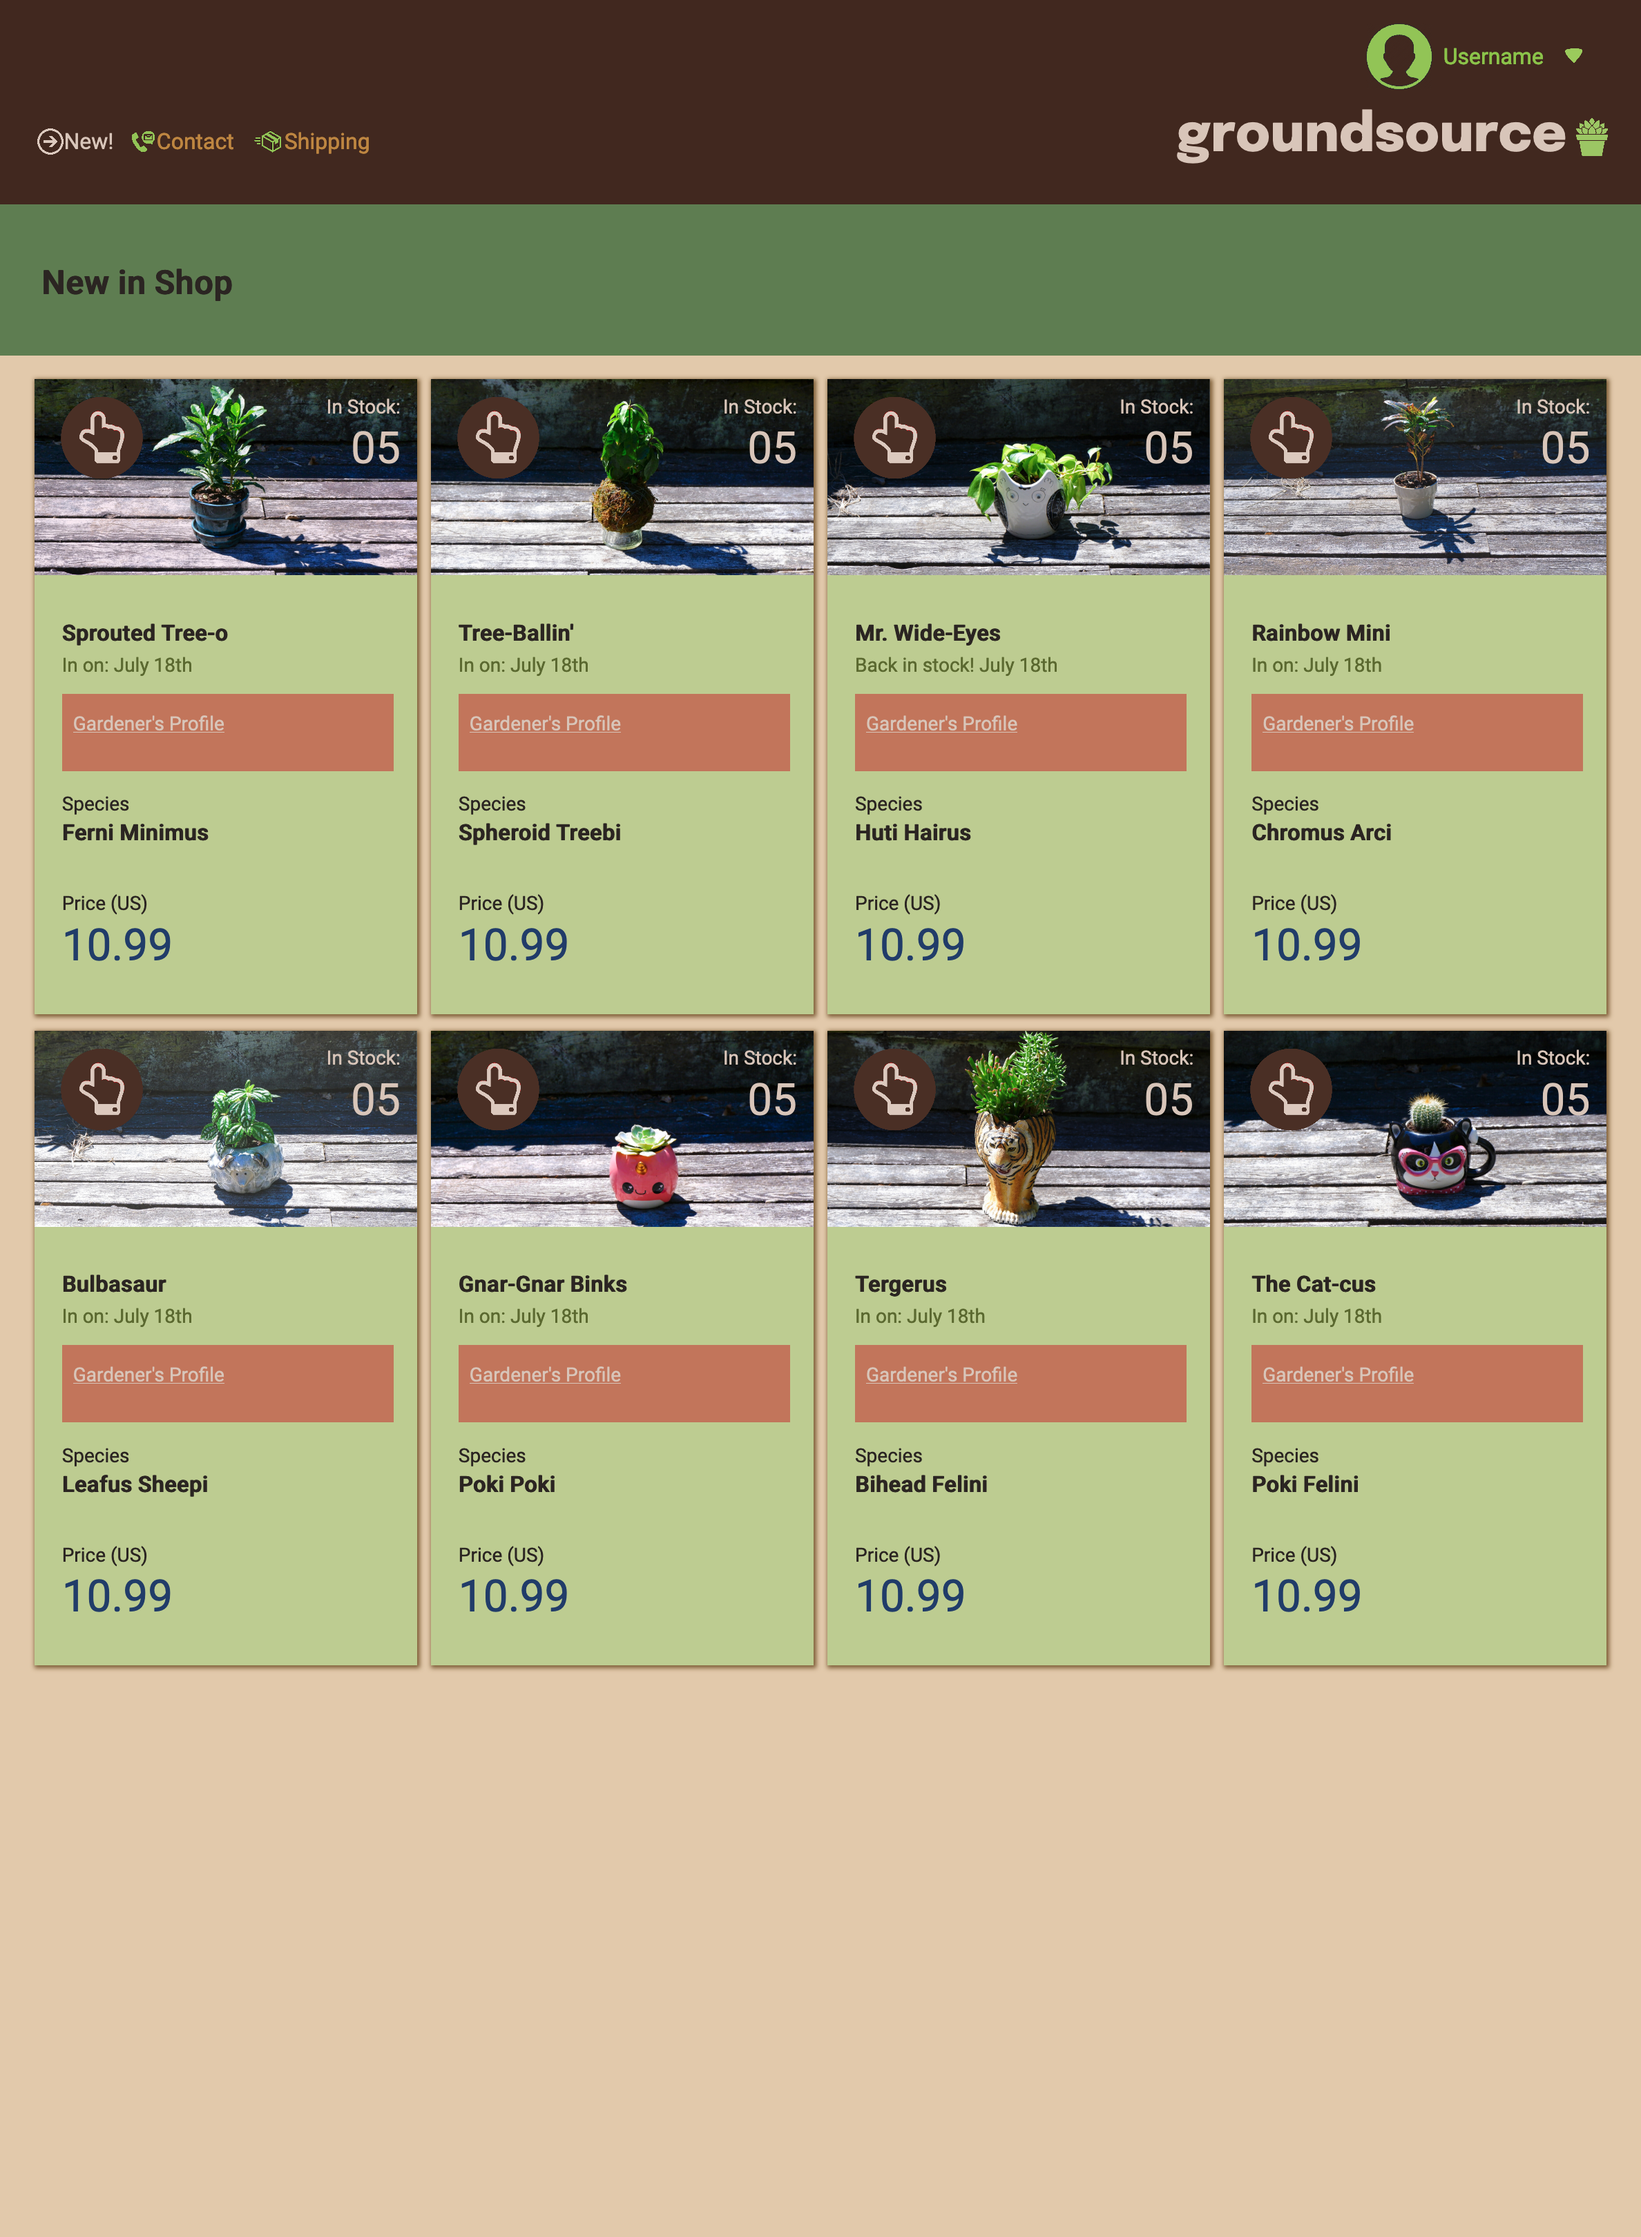
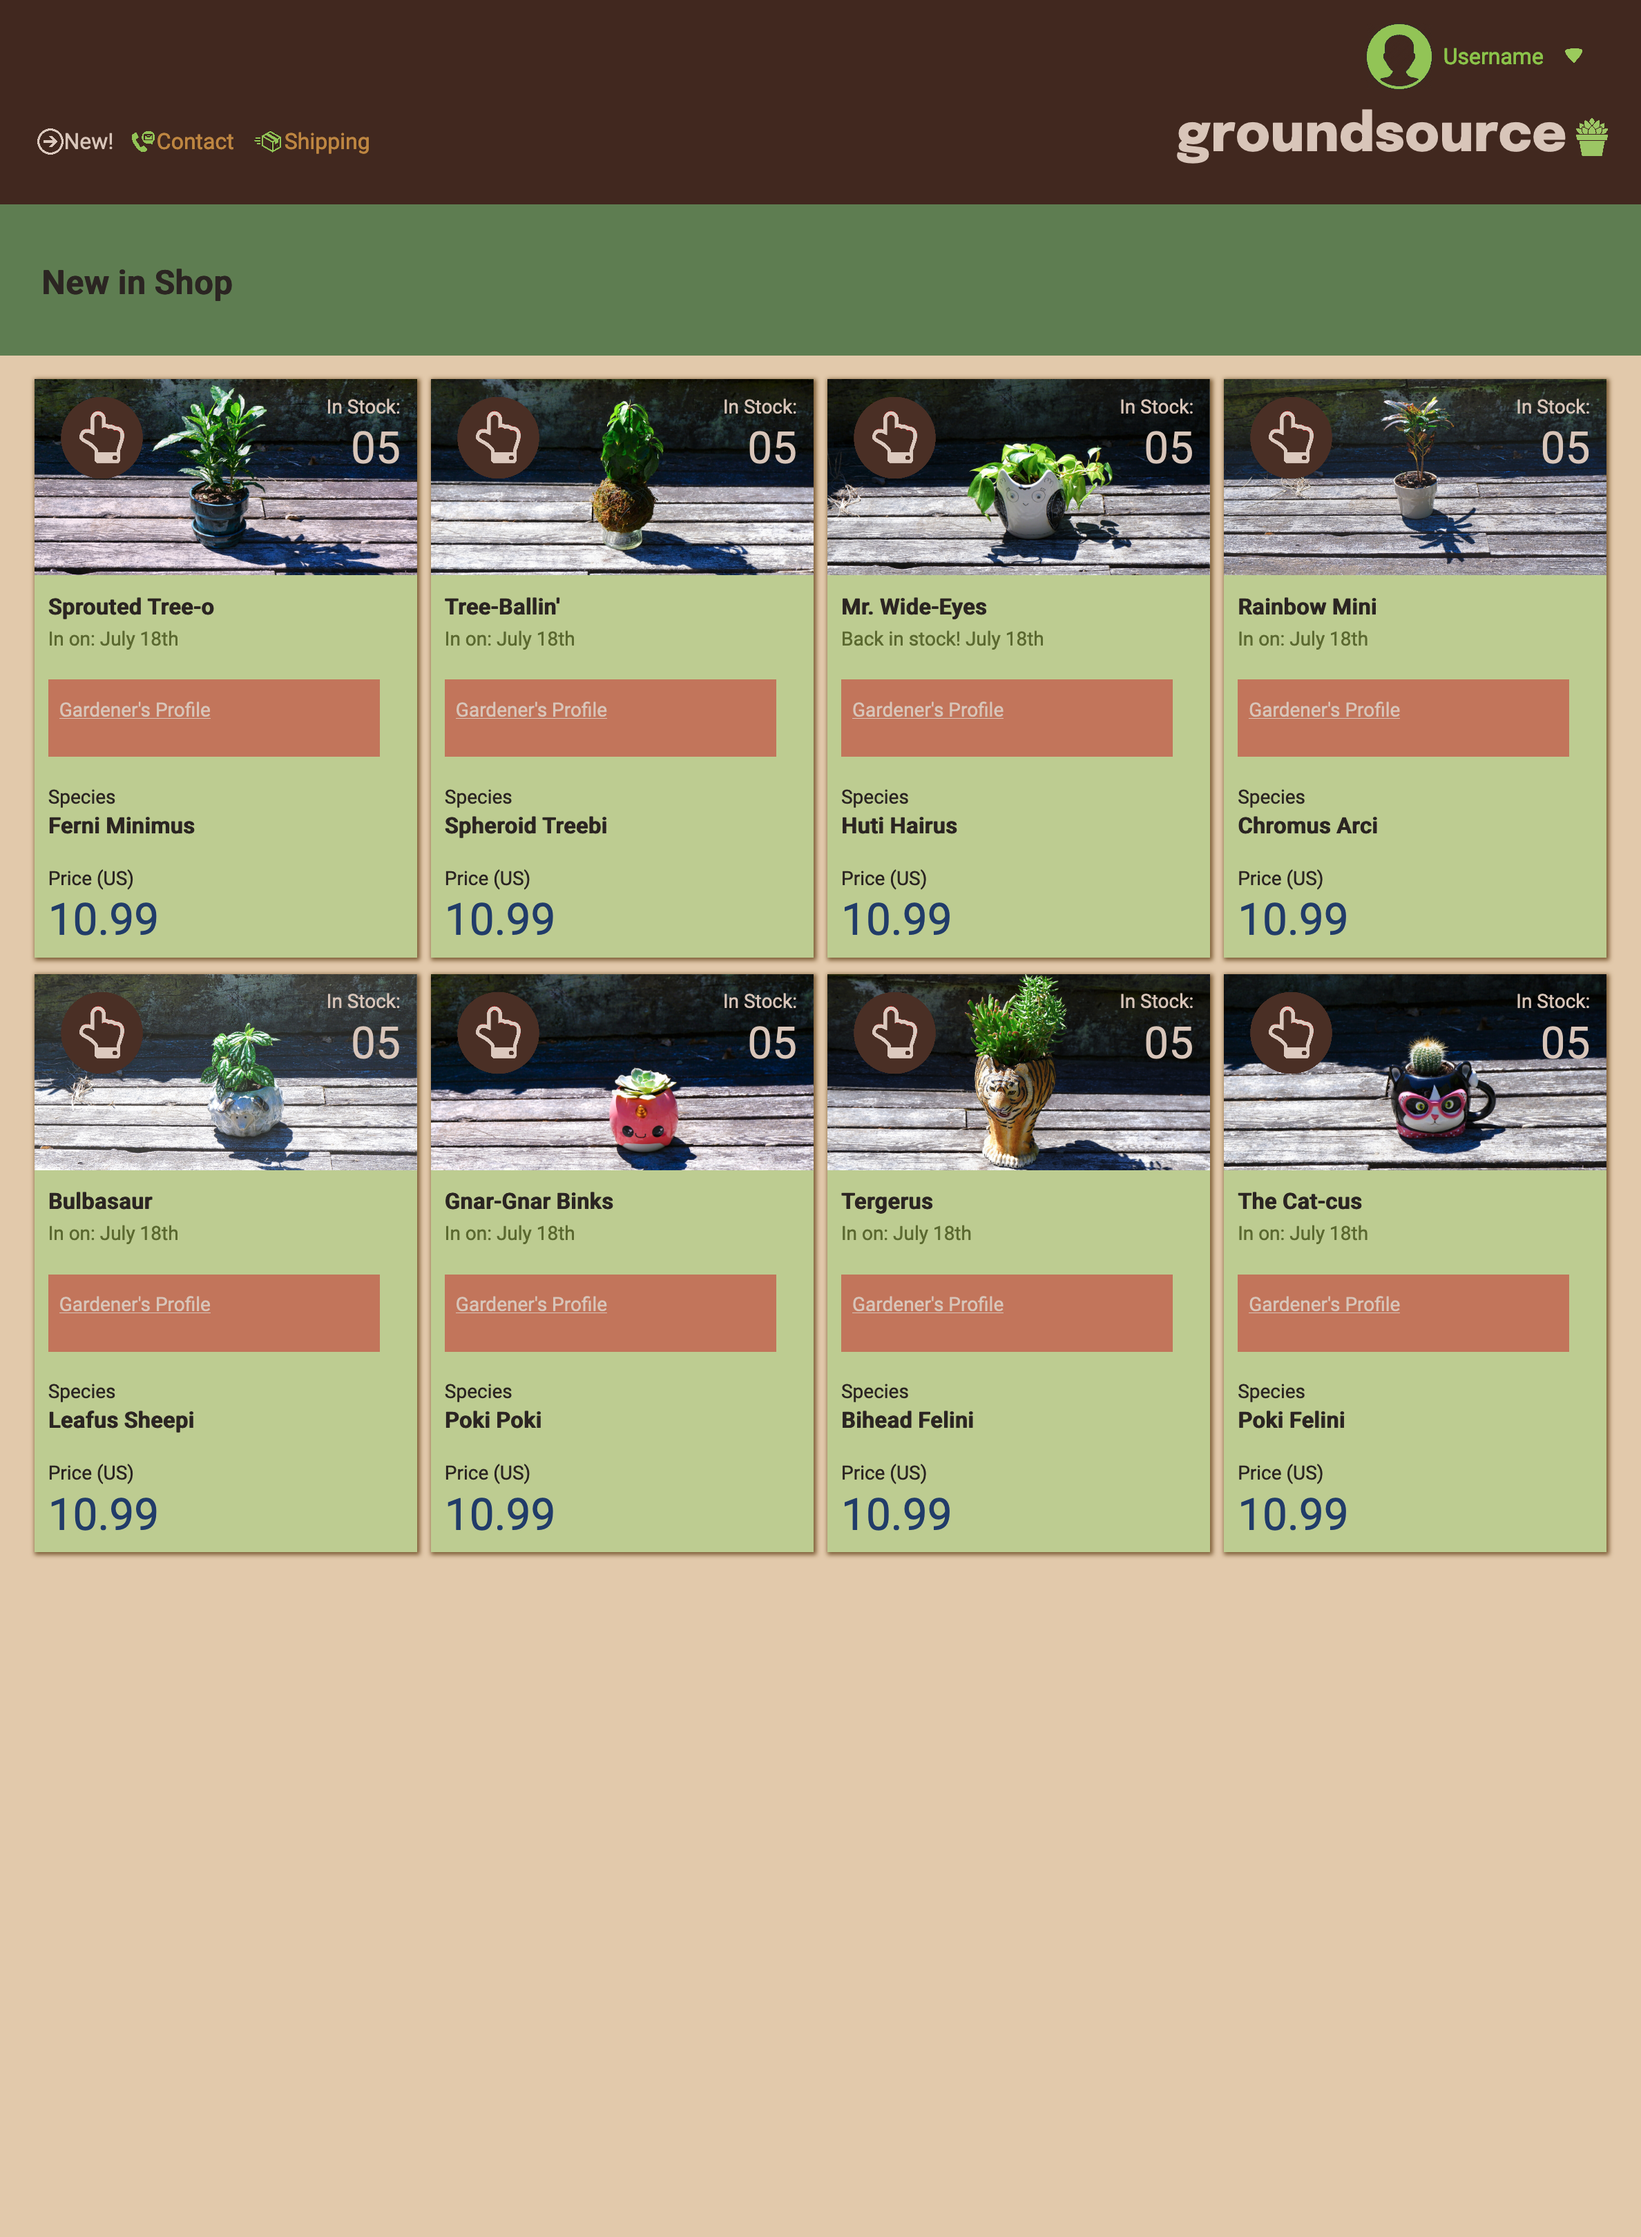
Change appearance to closer match Challenge

Changed region(s): [[0.0, 0.2494, 0.9966, 0.7481]]

diff --git a/styles.css b/styles.css
@@ -147,6 +147,7 @@ main > h2 {
   background-color: #bdcc91;
   box-shadow: 1px 1px 3px 1px #7d5d36;
 }
+
 .card-img{
   position: relative;
 }
@@ -180,10 +181,14 @@ img.click-icon{
 }
 
 .card-text{
+  padding-top: .625em;
+  margin-bottom: 1em;
   display: grid;
   grid-template-columns: .625em 1fr 1.825em;
-  grid-template-rows: .625em 3em 1.5em 3em 1.5em 3em 1.5em 3em 2.5em;
+  grid-template-rows: repeat(4, 1fr);
+  grid-row-gap: 1.3125em;
   width: 17.318em;
+  height: 16.0625em;
   justify-content: flex-start;
 }
 
@@ -194,20 +199,18 @@ img.click-icon{
 }
 
 .card-text>*{;
-  margin:0 0 0 .625em;
   display: inline-block;
   grid-column: 2;
   width: 100%;
 }
 
 .title-date{
-  padding-top: 1.188em;
-  grid-row: 2;
+  grid-row: 1;
 }
 
 .p-link{
   padding: .75em .5em .75em .5em;
-  grid-row: 4;
+  grid-row: 2;
   width: 15em;
   height: 3.5em;
   background-color: #c2755b;
@@ -218,12 +221,12 @@ img.click-icon{
 }
 
 .playlist{
-  grid-row: 6;
+  grid-row: 3;
 }
 
 .colorful-number{
   margin-bottom: 1.188em;
-  grid-row: 8;
+  grid-row: 4;
 }
 
 .title-date h4,
